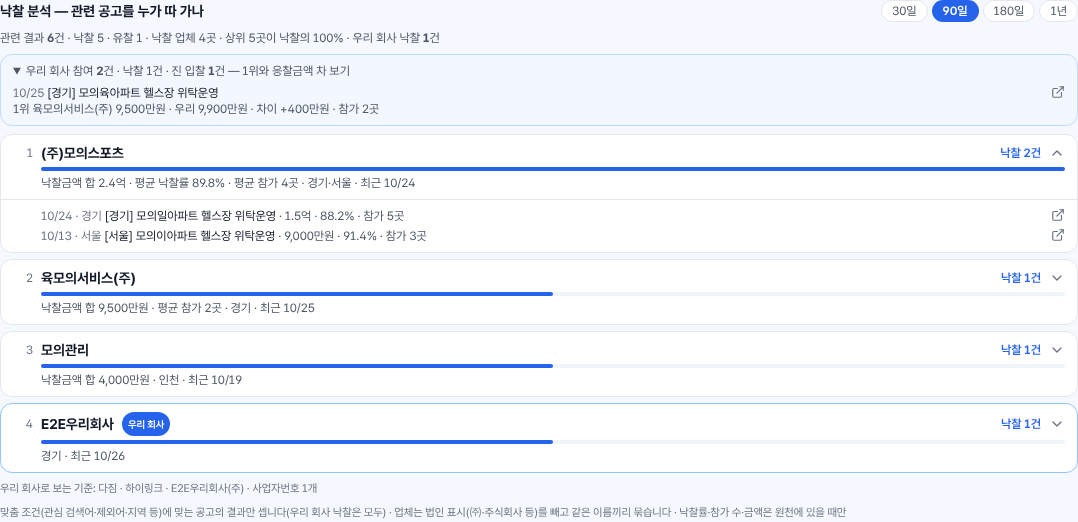
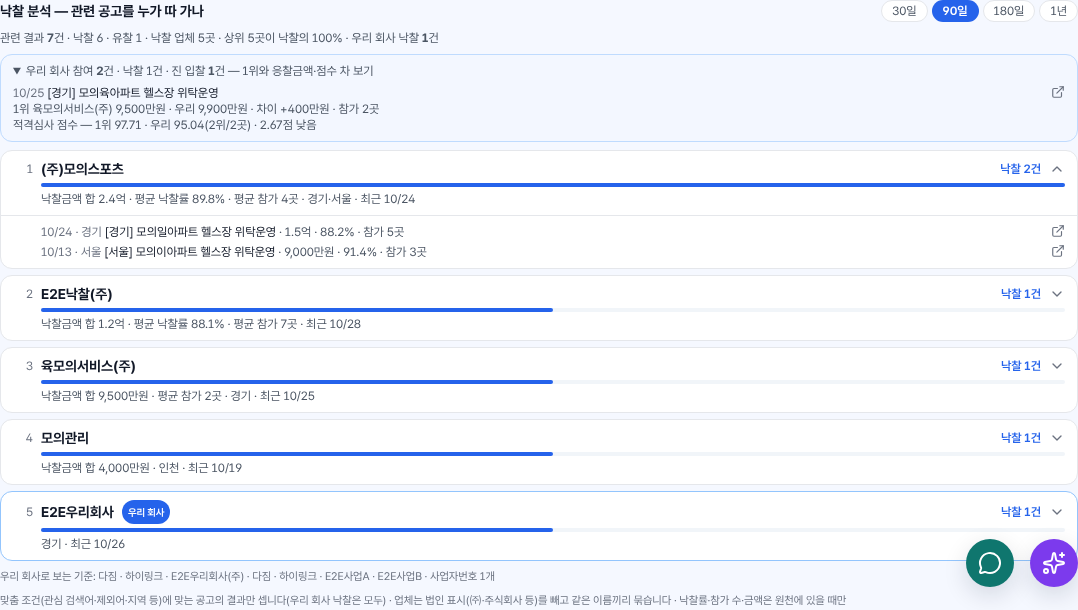
[배포확인요청][로컬요청] 234차 K-apt 입찰결과 목록 '관련 0' 고침(검색 칸 이름·세대수를 제목으로 읽음) + 적격심사 평가 점수 + 지난 1년치 결과가 메일에 한꺼번에 오르지 않게
로컬 10/28 16:20 '[지금 수집] K-apt 입찰결과: 목록 1,800 · 관련 0 — 정상인가' · '평가 점수도 저장 — 적격심사는 점수로 1위'.
원인(K-apt 공개 결과 화면 직접 확인): 검색 칸이 bidTitle·searchDateGb·dateStart·dateEnd 인데 searchKeyword·startDate·endDate 로 보내 검색어가 무시됨(18개 검색어마다 같은 최신 100건) + 지금 결과 표 9칸(순번·단지명·세대수·입찰공고명·입찰마감일·낙찰금액·낙찰업체·응찰금액·낙찰 업체)에서 3번째 칸(세대수)을 제목으로 판정.
- src/lib/sales/collectors/kapt.ts: 결과 목록 요청을 화면 검색 칸 그대로 · parseKaptResultRows 가 표 머리 칸 이름(입찰공고명·단지명·낙찰업체·낙찰금액·낙찰일/입찰마감일)으로 칸을 찾음(머리가 없으면 예전 자리) · 날짜는 앞 10자 · 상세 '참여업체 정보'의 평가점수 칸 → 참여업체 score · 상세 읽기 판(kapt_detail_v 2) — 참여업체 표를 231차 판으로 읽은 줄은 한 번 더
- src/lib/sales/collectors/procurement.ts: resultAtOf — 결과를 처음 안 때는 낙찰일(없으면 마감일)이 7일보다 오래되면 그날 23:59:59(한국 시각), 아니면 지금(새 줄·결과로 바뀐 줄 모두) · 참여업체 score·kapt_detail_v 저장(있을 때만)
- src/lib/sales/digest.ts: 결과 줄은 처음 본 날(isNew)이 아니라 결과를 안 때로 — result_at 이 있으면 그것만(새로 들어온 오래된 결과는 오늘 결과 아님)
- src/lib/sales/srcViews.ts: 오늘 탭 결과 묶음도 같은 기준(결과를 안 때가 지난 메일 전이면 빼기)
- src/lib/sales/migrate.ts: RESULT_KEEP 에 kapt_detail_v · 원본 매일 복사가 결과를 처음 알려도 낙찰일·마감일이 7일보다 오래되면 result_at 을 찍지 않음
- src/lib/sales/awardStats.ts·src/components/sales/AwardStats.tsx: 진 입찰 줄에 적격심사 점수 — 1위(낙찰 표시, 없으면 최고점)·우리·순위/곳(무효 업체 뺌)·n점 낮음/높음
시험: tests/api/sales-collectors(가짜 결과 화면을 실제 9칸 표·bidTitle 로 + 한 달 전 결과의 결과 시각) · sales-kapt-detail-231(평가점수 · 예전 판 한 번 더 읽기) · sales-migrate(+오래된 결과) · tests/e2e/awards226(점수 줄) · 영업 관련 API 전체 · typecheck·lint·build

Claude-Session: https://claude.ai/code/session_016D6QaBbBuSZXAeHKp3DqaZ

diff --git a/src/lib/sales/collectors/kapt.ts b/src/lib/sales/collectors/kapt.ts
@@ -183,13 +183,20 @@ export function parseKaptResultRows(body: string): { bidNum: string; title: stri
   let j: any = null; try { j = JSON.parse(body); } catch { /* HTML */ }
   const list = Array.isArray(j) ? j : Array.isArray(j?.list) ? j.list : Array.isArray(j?.resultList) ? j.resultList : Array.isArray(j?.data) ? j.data : null;
   if (list) { for (const it of list) { const bidNum = String(it.bidNum ?? it.BID_NUM ?? it.bidNo ?? ''); if (!bidNum) continue; out.push({ bidNum, title: String(it.bidTitle ?? it.BID_TITLE ?? it.title ?? ''), complex: String(it.kaptName ?? it.KAPT_NAME ?? it.complexName ?? ''), winner: it.sucsBidder ?? it.SUCS_BIDDER ?? it.winner ?? null, amount: it.sucsAmt ?? it.SUCS_AMT ?? it.amount ?? null, date: it.sucsDate ?? it.SUCS_DATE ?? it.openDate ?? null }); } return out; }
+  // 234차(로컬 10/28 16:20 '목록 1,800 · 관련 0'): 지금 K-apt 결과 표는 순번·단지명·세대수·입찰공고명·입찰마감일·낙찰금액·낙찰업체·응찰금액·낙찰 업체 —
+  // 칸 자리로 읽어 세대수를 제목으로 판정하던 것 → 표 머리 칸 이름으로 찾음(머리가 없으면 예전 자리)
+  const heads = [...body.matchAll(/<th[^>]*>([\s\S]*?)<\/th>/g)].map((m) => text(m[1]).replace(/\s/g, ''));
+  const at = (...names: string[]) => heads.findIndex((h) => names.includes(h));
+  const ix = { title: at('입찰공고명', '공고명'), complex: at('단지명'), winner: at('낙찰업체'), amount: at('낙찰금액'), date: at('낙찰일', '입찰마감일') };
   for (const m of body.matchAll(/<tr[^>]*>([\s\S]*?)<\/tr>/g)) { const tr = m[1]; const id = m[0].match(/goView\('([^']+)'\)|bidNum=([^&'"]+)/); /* 원본 K-apt 는 <tr onclick="goView('…')"> — 행 여는 태그까지 본다 */ const bidNum = id?.[1] ?? id?.[2]; if (!bidNum) continue; const cells = [...tr.matchAll(/<td[^>]*>([\s\S]*?)<\/td>/g)].map((c) => text(c[1])); if (cells.length < 5) continue;
-    out.push({ bidNum, title: cells[2] ?? '', complex: cells[1] ?? '', winner: cells[cells.length - 3] || null, amount: cells[cells.length - 2] || null, date: cells[cells.length - 1] || null }); }
+    const c = (i: number) => (i >= 0 ? cells[i] || null : null);
+    if (ix.title >= 0) out.push({ bidNum, title: cells[ix.title] ?? '', complex: cells[ix.complex] ?? '', winner: c(ix.winner), amount: c(ix.amount), date: c(ix.date)?.slice(0, 10) ?? null });
+    else out.push({ bidNum, title: cells[2] ?? '', complex: cells[1] ?? '', winner: cells[cells.length - 3] || null, amount: cells[cells.length - 2] || null, date: cells[cells.length - 1] || null }); }
   return out;
 }
 /** 231차(로컬 10/28 11:45 '참여업체 정보' 제안): 결과가 난 K-apt 입찰 상세 — 낙찰업체 정보(다른 입찰 사이트를 거친 건) · 참여업체 정보(K-apt 전자입찰) · 낙찰/유찰/취소 사유.
  *  표 머리 칸 이름으로 열을 찾음. 대표자·대표명·전화·연락처·회사주소 칸은 읽지 않음(로컬 10/28 "대표자 이름 · 전화는 저장하지 마세요") */
-export type KaptAwardBidder = { name: string; bizNo: string | null; amount: number | null; won: boolean; invalid: boolean };
+export type KaptAwardBidder = { name: string; bizNo: string | null; amount: number | null; won: boolean; invalid: boolean; score?: number | null };
 export type KaptAwardDetail = { winner: { name: string; bizNo: string | null; amount: number | null; method: string | null } | null; bidders: KaptAwardBidder[] | null; reason: string | null };
 export function parseKaptAwardDetail(html: string): KaptAwardDetail {
   const table = (title: string) => { const i = html.indexOf(title); if (i < 0) return null; const s = html.lastIndexOf('<table', i), e = html.indexOf('</table>', i); return s >= 0 && e > i ? html.slice(s, e) : null; };
@@ -210,14 +217,19 @@ export function parseKaptAwardDetail(html: string): KaptAwardDetail {
   if (p) {
     const rs = rowsOf(p); const heads = rs.map((r) => cells(r, 'th')).find((h) => h.length > 1) ?? [];
     const iName = col(heads, '응찰회사', '회사명', '업체명'), iBiz = col(heads, '사업자등록번호'), iAmt = col(heads, '응찰금액', '투찰금액'), iWon = col(heads, '낙찰여부'), iBad = col(heads, '낙찰무효');
+    // 234차(로컬 10/28 16:20): 적격심사 입찰은 '평가점수' 칸 — 1위는 금액이 아니라 점수로 정해짐
+    const iScore = col(heads, '평가점수'); const score = (v: string | undefined) => { const n = Number(String(v ?? '').replace(/[^\d.]/g, '')); return String(v ?? '').trim() && Number.isFinite(n) && n > 0 ? n : null; };
     if (iName >= 0) bidders = rs.map((r) => cells(r, 'td')).filter((v) => v.length > iName && v[iName]).slice(0, 60)
-      .map((v) => ({ name: v[iName], bizNo: iBiz >= 0 ? biz(v[iBiz]) : null, amount: iAmt >= 0 ? money(v[iAmt]) : null, won: iWon >= 0 && yes(v[iWon]), invalid: iBad >= 0 && yes(v[iBad]) }));
+      .map((v) => ({ name: v[iName], bizNo: iBiz >= 0 ? biz(v[iBiz]) : null, amount: iAmt >= 0 ? money(v[iAmt]) : null, won: iWon >= 0 && yes(v[iWon]), invalid: iBad >= 0 && yes(v[iBad]),
+        ...(iScore >= 0 && score(v[iScore]) != null ? { score: score(v[iScore]) } : {}) }));
     const top = bidders?.find((b) => b.won && !b.invalid); if (!winner && top) winner = { name: top.name, bizNo: top.bizNo, amount: top.amount, method: null };
   }
   const rz = table('낙찰/유찰/취소 사유'); const reason = rz ? rowsOf(rz).map((r) => cells(r, 'td').join(' ').trim()).find(Boolean) ?? null : null;
   return { winner, bidders, reason: reason ? reason.slice(0, 200) : null };
 }
 const DETAIL_RESULT_RUN = 60;
+/** 234차: 상세 읽기 판 — 2 = 평가점수 칸. 참여업체 표를 예전 판으로 읽은 줄은 한 번 더 읽음(231차 첫 읽기 때는 점수를 안 읽었다) */
+const DETAIL_V = 2;
 /** 231차: 관련 K-apt 결과(낙찰자 있음)와 마감 지난 관련 공고(결과 미상, 45일 안)의 상세를 실행당 60건 — 아직 안 읽은 것부터, 결과 미상은 3일마다 다시.
  *  참가 업체 수·참여업체(이름·사업자번호·응찰금액·낙찰 여부·무효)·낙찰업체 사업자번호·사유 → 유찰 사유면 상태 '유찰' */
 async function awardDetails(fetchImpl: typeof fetch, left: () => number, now: Date) {
@@ -225,7 +237,8 @@ async function awardDetails(fetchImpl: typeof fetch, left: () => number, now: Da
   const rows = await db()<{ row: any }[]>`select row from sales_src_rows where scope = 'global' and tbl = 'procurement_notices' and not gone and row->>'source_type' = 'kapt_bid'
       and (row->>'related' = 'true' or coalesce(row->>'fit_business', '') <> '')
       and (coalesce(row->>'winner_name', '') <> '' or (left(coalesce(row->>'deadline_at', ''), 10) < ${day} and left(coalesce(row->>'deadline_at', ''), 10) >= ${kstYmd(new Date(now.getTime() - 45 * 864e5))}))
-      and (row->>'kapt_detail_at' is null or (coalesce(row->>'winner_name', '') = '' and coalesce(row->>'current_status', '') !~ '유찰' and row->>'kapt_detail_at' < ${new Date(now.getTime() - 3 * 864e5).toISOString()}))
+      and (row->>'kapt_detail_at' is null or (coalesce(row->>'winner_name', '') = '' and coalesce(row->>'current_status', '') !~ '유찰' and row->>'kapt_detail_at' < ${new Date(now.getTime() - 3 * 864e5).toISOString()})
+        or (jsonb_typeof(row->'participants') = 'array' and coalesce(row->>'kapt_detail_v', '1') < ${String(DETAIL_V)}))
     order by coalesce(row->>'award_date', row->>'deadline_at') desc nulls last limit ${DETAIL_RESULT_RUN}`;
   const out: Record<string, unknown>[] = []; let withBidders = 0, failed = 0, missed = 0;
   await pool(rows.map((x) => x.row), 4, async (r) => {
@@ -235,7 +248,7 @@ async function awardDetails(fetchImpl: typeof fetch, left: () => number, now: Da
       const s = await kaptSession(bid, fetchImpl, 8000); if (s.status !== 200) { missed++; return; }
       const d = parseKaptAwardDetail(s.html);
       // 마감일을 같이 넘겨 상태 계산(낙찰자 없으면 '마감')이 지금 상태를 '진행중'으로 바꾸지 않게
-      const p: Record<string, unknown> = { source_type: 'kapt_bid', source_external_id: bid, title: r.title, source_url: r.source_url, deadline_at: r.deadline_at ?? null, kapt_detail_at: now.toISOString() };
+      const p: Record<string, unknown> = { source_type: 'kapt_bid', source_external_id: bid, title: r.title, source_url: r.source_url, deadline_at: r.deadline_at ?? null, kapt_detail_at: now.toISOString(), kapt_detail_v: DETAIL_V };
       if (d.winner) { p.winner_name = d.winner.name; if (d.winner.bizNo) p.winner_biz_no = d.winner.bizNo; if (d.winner.amount) p.winner_amount = d.winner.amount; }
       if (d.bidders) { p.participants = d.bidders; p.bidders = d.bidders.length; withBidders++; }
       if (d.reason) p.result_note = d.reason;
@@ -258,7 +271,8 @@ export const kaptBidResults: Collector = {
     for (const w of KAPT_RESULT_WORDS) {
       if (left() < 8000) { errors.push(`시간 한도 근접 — 검색어 '${w}' 부터는 다음 실행에서`); break; }
       try {
-        const body = new URLSearchParams({ searchKeyword: w, sortType: '01', pageNo: '1', pageSelect: '100', startDate: from, endDate: to, ...(csrf ? { _csrf: csrf } : {}) });
+        // 234차: K-apt 결과 화면 검색 칸 이름 그대로(bidTitle·searchDateGb·dateStart·dateEnd) — searchKeyword·startDate 는 무시되어 검색어마다 같은 최신 100건이 왔다
+        const body = new URLSearchParams({ bidTitle: w, searchDateGb: 'reg', dateStart: from, dateEnd: to, tabNum: '1', codeWay: '', sortType: '01', pageNo: '1', pageSelect: '100', ...(csrf ? { _csrf: csrf } : {}) });
         const res = await fetchImpl(`${BASE()}/bid/bidResultListAjax.do`, { method: 'POST', headers: { ...HEADERS, 'content-type': 'application/x-www-form-urlencoded', ...(cookie ? { cookie } : {}), ...(csrf ? { 'X-CSRF-TOKEN': csrf } : {}) }, body, signal: AbortSignal.timeout(10000) });
         if (!res.ok) { errors.push(`'${w}': HTTP ${res.status}`); continue; }
         const rows = parseKaptResultRows(await res.text()); listed += rows.length; if (!rows.length && errors.length < 12) errors.push(`'${w}': 결과 목록 0건(응답 형식 확인 필요)`);

diff --git a/src/lib/sales/collectors/procurement.ts b/src/lib/sales/collectors/procurement.ts
@@ -93,6 +93,12 @@ export function matchFit(...texts: (string | null | undefined)[]): FitResult {
 }
 
 /** 로컬 10/24 12:20(#537 후속): 결과(낙찰·유찰) 줄 — 영업 기회가 아니라 결과. 오늘 새 공고·새 공고 수에서 빼고 '결과' 묶음으로(당일 메일·영업기회 오늘 탭·영업 홈 같은 기준) */
+/** 234차: 결과를 처음 안 때 — 낙찰일(없으면 마감일)이 7일보다 오래된 결과를 이제야 안 것(K-apt 결과 목록을 고친 뒤 1년치처럼)은 그날 끝으로 남겨 당일 메일 '오늘 결과'로 한꺼번에 오르지 않게 */
+export function resultAtOf(r: any, now: Date) {
+  const d = String(r?.award_date ?? '').slice(0, 10).match(/^\d{4}-\d{2}-\d{2}$/)?.[0] ?? String(r?.deadline_at ?? '').slice(0, 10).match(/^\d{4}-\d{2}-\d{2}$/)?.[0];
+  const end = d ? Date.parse(`${d}T23:59:59+09:00`) : NaN;
+  return Number.isFinite(end) && end < now.getTime() - 7 * 864e5 ? new Date(end).toISOString() : now.toISOString();
+}
 export const isAwardResult = (r: any) => /낙찰|유찰/.test(String(r?.current_status ?? '')) || ['winner_name', 'award_company', 'successful_bidder'].some((k) => String(r?.[k] ?? '').trim() !== '');
 /** 닫힌 공고 상태 — '마감임박'(3일 안 마감, 아직 진행 중)은 닫힘이 아님(로컬 10/24 12:58: 마감 10/26 공고가 '마감·취소'로 보였음) */
 export const CLOSED_STATUS = /마감(?!임박)|종료|취소|낙찰|유찰|개찰완료/;
@@ -125,7 +131,7 @@ export const PROCUREMENT_ETL_FIELDS = ['source_url', 'notice_file_url', 'issuer'
   'bid_system', 'award_method', 'notice_state', 'facility_name', 'bid_category', 'office_phone', 'office_fax', 'office_address', 'household_count', 'fit_business', 'matched_keywords', 'related', 'attachment_urls',
   'notice_kind', 'participation_deadline_at', 'opening_at', 'demand_agency', 'region_restriction', 'industry_code', 'winner_name', 'winner_amount', 'award_date', 'files_checked_at', 'site_briefing_at', 'site_briefing_place',
   'base_amount', 'notice_no', 'winner_biz_no', 'winner_rate', 'bidders'] as const; // #522 기초금액(LH fdmtlAmt·국방 기초예비가격) — 추정가격·배정예산과 따로 · #543 공고번호(바로 가는 주소가 없는 원천의 '번호 검색' 안내)
-export const AWARD_FIELDS = ['winner_name', 'winner_biz_no', 'winner_amount', 'award_date', 'current_status', 'winner_rate', 'bidders', 'participants', 'result_note', 'kapt_detail_at'] as const; // 196차: 낙찰자 사업자번호 — 입찰 업무 '우리 회사 낙찰' 판정 · #530 낙찰률·참가 업체 수(당일 메일 결과 구역) · 231차 K-apt 상세 참여업체(대표자·전화 없음)·사유·읽은 때
+export const AWARD_FIELDS = ['winner_name', 'winner_biz_no', 'winner_amount', 'award_date', 'current_status', 'winner_rate', 'bidders', 'participants', 'result_note', 'kapt_detail_at', 'kapt_detail_v'] as const; // 196차: 낙찰자 사업자번호 — 입찰 업무 '우리 회사 낙찰' 판정 · #530 낙찰률·참가 업체 수(당일 메일 결과 구역) · 231차 K-apt 상세 참여업체(대표자·전화 없음)·사유·읽은 때
 export type NoticeRow = Record<string, unknown> & { source_type: string; source_external_id: string; title: string; source_url: string };
 
 const txt = (v: unknown): string | null => { if (v == null) return null; const t = String(v).replace(/\s+/g, ' ').trim(); return t ? t : null; };
@@ -182,8 +188,9 @@ export function validateNoticePayload(p: Record<string, unknown>, now: Date): No
     base_amount: num(p.base_amount),
     notice_no: txt(p.notice_no), // #543 차수·구분 없는 공고번호(온비드·국방·LH — 원천 사이트에서 검색할 번호)
     // 231차 K-apt 상세: 참여업체(이름·사업자번호·응찰금액·낙찰 여부·무효만 — 대표자·전화 칸은 받지 않음)·낙찰/유찰/취소 사유·상세 읽은 때
-    ...(Array.isArray(p.participants) ? { participants: (p.participants as any[]).slice(0, 60).map((b) => ({ name: txt(b?.name)?.slice(0, 100) ?? '', bizNo: txt(b?.bizNo), amount: num(b?.amount), won: b?.won === true, invalid: b?.invalid === true })).filter((b) => b.name) } : {}),
-    ...(txt(p.result_note) ? { result_note: txt(p.result_note)!.slice(0, 200) } : {}), ...(txt(p.kapt_detail_at) ? { kapt_detail_at: txt(p.kapt_detail_at) } : {}),
+    ...(Array.isArray(p.participants) ? { participants: (p.participants as any[]).slice(0, 60).map((b) => ({ name: txt(b?.name)?.slice(0, 100) ?? '', bizNo: txt(b?.bizNo), amount: num(b?.amount), won: b?.won === true, invalid: b?.invalid === true,
+      ...(num(b?.score) != null ? { score: num(b?.score) } : {}) })).filter((b) => b.name) } : {}), // 234차: 적격심사 평가 점수(있을 때만)
+    ...(txt(p.result_note) ? { result_note: txt(p.result_note)!.slice(0, 200) } : {}), ...(txt(p.kapt_detail_at) ? { kapt_detail_at: txt(p.kapt_detail_at) } : {}), ...(num(p.kapt_detail_v) != null ? { kapt_detail_v: num(p.kapt_detail_v) } : {}),
   };
   return { ok: true, row };
 }
@@ -216,7 +223,7 @@ export function planNoticeBatch(items: Record<string, unknown>[], prev: Map<stri
     const p = prev.get(v.row.source_external_id);
     if (!p) {
       if (mergeScope === 'award' && !v.row.winner_name) continue; // 낙찰 병합인데 기존 공고가 없고 낙찰자도 없으면 버림
-      plan.inserts.push({ key, row: { ...v.row, classification: initialClassification(v.row), ...(isAwardResult(v.row) ? { result_at: now.toISOString() } : {}) } }); continue;
+      plan.inserts.push({ key, row: { ...v.row, classification: initialClassification(v.row), ...(isAwardResult(v.row) ? { result_at: resultAtOf(v.row, now) } : {}) } }); continue;
     }
     const patch: Record<string, unknown> = {}; const changed: string[] = [];
     const fields = mergeScope === 'award' ? AWARD_FIELDS : PROCUREMENT_ETL_FIELDS;
@@ -239,7 +246,7 @@ export function planNoticeBatch(items: Record<string, unknown>[], prev: Map<stri
       if (patch.related === false && (p.related === true || p.related === 'true')) { patch.classification = '참고(비관련)'; if (p.refound_at) patch.refound_at = null; }
     }
     // 215차(#530): 결과(낙찰·유찰)를 처음 알게 된 때 — 당일 메일 '결과' 구역은 이 시각으로(낙찰률 채우기 같은 고침으로 예전 결과가 다시 오르지 않게)
-    if (changed.length && !isAwardResult(p) && isAwardResult({ ...p, ...patch })) { patch.result_at = now.toISOString(); changed.push('result_at'); }
+    if (changed.length && !isAwardResult(p) && isAwardResult({ ...p, ...patch })) { patch.result_at = resultAtOf({ ...p, ...patch }, now); changed.push('result_at'); }
     // 230차(로컬 10/28 14:40 남원시): 이미 결과였던 줄에 낙찰률·참가 수가 뒤늦게 채워진 때 — 다음 당일 메일 결과 구역에 '보완' 한 줄로 다시 냄
     else if (isAwardResult(p) && ((patch.winner_rate != null && !filled(p.winner_rate)) || (patch.bidders != null && !filled(p.bidders)))) { patch.result_filled_at = now.toISOString(); changed.push('result_filled_at'); }
     if (changed.length) plan.updates.push({ id: String(p.id), key, patch, summary: `변경: ${changed.join(', ')}` });

diff --git a/src/components/sales/AwardStats.tsx b/src/components/sales/AwardStats.tsx
@@ -9,7 +9,8 @@ import { ErrorBox, Skeleton, cx } from '@/components/ui';
 
 type Rec = { id: string; title: string; date: string | null; amount: number | null; rate: number | null; bidders: number | null; region: string | null; issuer: string | null; url: string | null };
 type Co = { key: string; rank: number; name: string; ours: boolean; wins: number; amount: number | null; rate: number | null; bidders: number | null; regions: string[]; last: string | null; recent: Rec[] };
-type Lost = { id: string; title: string; date: string | null; issuer: string | null; url: string | null; our: number | null; winner: string | null; winnerAmount: number | null; gap: number | null; bidders: number | null };
+type Lost = { id: string; title: string; date: string | null; issuer: string | null; url: string | null; our: number | null; winner: string | null; winnerAmount: number | null; gap: number | null; bidders: number | null;
+  score?: { top: number | null; our: number; gap: number | null; rank: number; of: number } | null };
 type Stats = { days: number; total: number; awarded: number; failed: number; companies: number; ours: number; top5Share: number; items: Co[]; me?: { names: string[]; biz: number; noBiz: string[] };
   participated?: number; lostCount?: number; lost?: Lost[] };
 const C = '#2563EB'; // 영업 색(SalesSrc 와 같음)
@@ -30,11 +31,13 @@ export function AwardStats({ onOpen }: { onOpen: (id: string) => void }) {
       {error ? <ErrorBox error={error} retry={reload} /> : !data ? <Skeleton rows={5} /> : <>
         <p className="text-xs text-ink-2" data-testid="award-summary">관련 결과 <b>{data.total}</b>건 · 낙찰 {data.awarded} · 유찰 {data.failed} · 낙찰 업체 {data.companies}곳{data.awarded ? ` · 상위 5곳이 낙찰의 ${data.top5Share}%` : ''} · 우리 회사 낙찰 <b>{data.ours}</b>건</p>
         {(data.participated ?? 0) > 0 && <details className="rounded-card border border-blue-200 bg-blue-50/40 px-3 py-2 text-xs" data-testid="award-lost">
-          <summary className="cursor-pointer text-ink-2">우리 회사 참여 <b>{data.participated}</b>건 · 낙찰 {data.ours}건 · 진 입찰 <b>{data.lostCount ?? 0}</b>건{(data.lostCount ?? 0) > 0 ? ' — 1위와 응찰금액 차 보기' : ''}</summary>
+          <summary className="cursor-pointer text-ink-2">우리 회사 참여 <b>{data.participated}</b>건 · 낙찰 {data.ours}건 · 진 입찰 <b>{data.lostCount ?? 0}</b>건{(data.lostCount ?? 0) > 0 ? ' — 1위와 응찰금액·점수 차 보기' : ''}</summary>
           {(data.lost ?? []).length > 0 && <ul className="mt-1.5 space-y-1">{(data.lost ?? []).map((x) => (
             <li key={x.id} className="flex min-w-0 items-start gap-1.5"><button type="button" onClick={() => onOpen(x.id)} className="min-w-0 flex-1 text-left hover:underline" data-testid="award-lost-row">
               <span className="text-ink-3">{md(x.date) ?? '날짜 없음'}</span> {x.title}
-              <span className="block text-ink-2">{[x.winner && `1위 ${x.winner}${won(x.winnerAmount) ? ` ${won(x.winnerAmount)}` : ''}`, won(x.our) && `우리 ${won(x.our)}`, x.gap != null && `차이 ${x.gap > 0 ? '+' : x.gap < 0 ? '−' : ''}${won(Math.abs(x.gap)) ?? '0원'}`, x.bidders && `참가 ${x.bidders}곳`].filter(Boolean).join(' · ')}</span></button>
+              <span className="block text-ink-2">{[x.winner && `1위 ${x.winner}${won(x.winnerAmount) ? ` ${won(x.winnerAmount)}` : ''}`, won(x.our) && `우리 ${won(x.our)}`, x.gap != null && `차이 ${x.gap > 0 ? '+' : x.gap < 0 ? '−' : ''}${won(Math.abs(x.gap)) ?? '0원'}`, x.bidders && `참가 ${x.bidders}곳`].filter(Boolean).join(' · ')}</span>
+              {x.score && <span className="block text-ink-2" data-testid="award-lost-score">적격심사 점수 — {[x.score.top != null && `1위 ${x.score.top}`, `우리 ${x.score.our}(${x.score.rank}위/${x.score.of}곳)`,
+                x.score.gap != null && (x.score.gap > 0 ? `${x.score.gap}점 낮음` : x.score.gap < 0 ? `${-x.score.gap}점 높음` : '같은 점수')].filter(Boolean).join(' · ')}</span>}</button>
               {x.url && <a href={x.url} target="_blank" rel="noopener noreferrer" className="shrink-0 text-ink-3 hover:text-ink" aria-label="원문 보기"><ExternalLink className="size-3.5" /></a>}</li>))}</ul>}
         </details>}
         {!data.items.length ? <p className="rounded-card border border-dashed border-line bg-white p-4 text-center text-sm text-ink-3" data-testid="award-empty">이 기간 관련 공고의 낙찰 결과가 없습니다. 낙찰 결과는 수집기(K-apt 입찰결과·나라장터 낙찰정보 등)가 모읍니다 — <Link href="/s/sales/sources#collectors" className="underline">데이터 설정 › 수집기</Link></p>

diff --git a/src/lib/sales/awardStats.ts b/src/lib/sales/awardStats.ts
@@ -16,8 +16,15 @@ import { sidoIn } from './region';
 export const AWARD_DAYS = [30, 90, 180, 365] as const;
 type Rec = { id: string; title: string; date: string | null; amount: number | null; rate: number | null; bidders: number | null; region: string | null; issuer: string | null; url: string | null };
 /** 231차: 우리 회사가 참여했지만 남이 낙찰한 입찰(K-apt 참여업체 표) — 1위와 응찰금액 차(우리 − 1위) */
-type Lost = { id: string; title: string; date: string | null; issuer: string | null; url: string | null; our: number | null; winner: string | null; winnerAmount: number | null; gap: number | null; bidders: number | null };
+type Lost = { id: string; title: string; date: string | null; issuer: string | null; url: string | null; our: number | null; winner: string | null; winnerAmount: number | null; gap: number | null; bidders: number | null;
+  /** 234차: 적격심사 평가 점수(참여업체 표에 있을 때) — 1위 점수·우리 점수·차이(1위 − 우리)·우리 점수 순위 */ score?: { top: number | null; our: number; gap: number | null; rank: number; of: number } | null };
 const num = (v: unknown) => { if (v == null || v === '') return null; const x = Number(String(v).replace(/[,원%\s]/g, '')); return Number.isFinite(x) && x > 0 ? x : null; };
+/** 234차(로컬 10/28 16:20 힐스테이트관악센트씨엘 — 금액 차 4.8만원보다 점수 차 2.67점): 참여업체 평가 점수가 있으면 1위(낙찰 표시, 없으면 최고점)·우리·차이·우리 순위(무효 뺌) */
+const scoreOf = (ps: any[], us: any, top: any) => {
+  const our = num(us?.score); if (our == null) return null;
+  const valid = ps.filter((x) => !x?.invalid && num(x?.score) != null); const best = num(top?.score) ?? Math.max(...valid.map((x) => num(x.score) as number));
+  return { top: Number.isFinite(best) ? best : null, our, gap: Number.isFinite(best) ? Math.round((best - our) * 100) / 100 : null, rank: valid.filter((x) => (num(x.score) as number) > our).length + 1, of: valid.length };
+};
 const avg = (xs: number[]) => (xs.length ? Math.round((xs.reduce((a, b) => a + b, 0) / xs.length) * 10) / 10 : null);
 const regionOf = (r: Record<string, any>) => { const v = String(r.region ?? '').trim(); return (v && v !== '-' ? sidoIn(v) ?? v : null) ?? sidoIn(r.region_restriction, r.issuer, r.demand_agency, r.office_address, r.facility_name, r.title); };
 
@@ -43,7 +50,7 @@ export async function awardStats(u: SessionUser, days0: number) {
     if (us || mine) participated++;
     if (us && !mine && name) { const top = ps.find((x) => x?.won && !x?.invalid); const our = num(us.amount), wa = num(r.winner_amount) ?? num(top?.amount);
       lost.push({ id: String(r.id ?? id), title: String(r.title ?? '').trim(), date: String(r.award_date ?? r.posted_date ?? '').slice(0, 10) || null, issuer: String(r.issuer ?? r.facility_name ?? '').trim() || null,
-        url: String(r.source_url ?? '').trim() || null, our, winner: name, winnerAmount: wa, gap: our != null && wa != null ? our - wa : null, bidders: ps.length || num(r.bidders) }); }
+        url: String(r.source_url ?? '').trim() || null, our, winner: name, winnerAmount: wa, gap: our != null && wa != null ? our - wa : null, bidders: ps.length || num(r.bidders), score: scoreOf(ps, us, top) }); }
     if (!mine && !passPrefs(r, p).ok) continue; // 227차: 우리 회사 낙찰은 맞춤 조건(지역·검색어 등) 밖이어도 셈
     total++;
     if (!name) { failed++; continue; }

diff --git a/src/lib/sales/migrate.ts b/src/lib/sales/migrate.ts
@@ -62,10 +62,10 @@ const idOf = (r: any) => (r?.id != null ? String(r.id) : createHash('sha256').up
 /** 191차(대표 10/27 판정 정정): 워크인 규칙으로 판정한 공고 줄(judged_at)은 원본 매일 복사가 판정 칸을 원본 값으로 되돌리지 않음 — 나머지 칸은 원본 값 */
 export const JUDGED_KEEP = ['related', 'fit_business', 'matched_keywords', 'classification', 'refit_at', 'refound_at', 'refit_lowered_at', 'refit_lowered_why', 'refit_changed_at', 'judged_at'];
 /** 232차(로컬 10/28 15:40 남원시 '결과를 처음 안 때'가 빔): 워크인 수집기·K-apt 상세가 채운 결과 칸 — 원본 매일 복사가 원본의 빈 값으로 지우지 않음(원본에 값이 있으면 원본 값).
- *  낙찰·유찰로 안 결과는 원본이 아직 결과 전이어도 상태를 되돌리지 않고, 원본 복사로 결과를 처음 알면 그때를 result_at 으로 */
-export const RESULT_KEEP = ['result_at', 'result_filled_at', 'kapt_detail_at', 'participants', 'result_note', 'winner_name', 'winner_biz_no', 'winner_amount', 'award_date', 'winner_rate', 'bidders'];
+ *  낙찰·유찰로 안 결과는 원본이 아직 결과 전이어도 상태를 되돌리지 않고, 원본 복사로 결과를 처음 알면 그때를 result_at 으로(234차: 낙찰일·마감일이 7일보다 오래된 결과는 찍지 않음 — 당일 메일에 한꺼번에 오르지 않게) */
+export const RESULT_KEEP = ['result_at', 'result_filled_at', 'kapt_detail_at', 'kapt_detail_v', 'participants', 'result_note', 'winner_name', 'winner_biz_no', 'winner_amount', 'award_date', 'winner_rate', 'bidders'];
 async function upsertRows(scope: string, tbl: string, rows: any[]) {
-  const sql = db(); const now = new Date();
+  const sql = db(); const now = new Date(); const weekAgo = new Intl.DateTimeFormat('en-CA', { timeZone: 'Asia/Seoul' }).format(new Date(now.getTime() - 7 * 864e5));
   for (let n = 0; n < rows.length; n += 500) {
     const chunk = rows.slice(n, n + 500).map((r) => ({ scope, tbl, src_id: idOf(r), row: sql.json(r), gone: false, synced_at: now }));
     if (tbl === 'procurement_notices') await sql`insert into sales_src_rows ${sql(chunk as never)} on conflict (scope, tbl, src_id) do update set
@@ -77,6 +77,7 @@ async function upsertRows(scope: string, tbl: string, rows: any[]) {
           then jsonb_strip_nulls(jsonb_build_object('current_status', sales_src_rows.row->'current_status', 'notice_state', sales_src_rows.row->'notice_state')) else '{}'::jsonb end)
         || (case when not (sales_src_rows.row ? 'result_at') and not (coalesce(sales_src_rows.row->>'current_status', '') ~ '낙찰|유찰' or coalesce(sales_src_rows.row->>'winner_name', '') <> '')
             and (coalesce(excluded.row->>'current_status', '') ~ '낙찰|유찰' or coalesce(excluded.row->>'winner_name', '') <> '')
+            and not coalesce(coalesce(nullif(left(excluded.row->>'award_date', 10), ''), left(excluded.row->>'deadline_at', 10)) < ${weekAgo}, false)
           then jsonb_build_object('result_at', ${now.toISOString()}::text) else '{}'::jsonb end),
       gone = false, synced_at = excluded.synced_at`;
     else await sql`insert into sales_src_rows ${sql(chunk as never)} on conflict (scope, tbl, src_id) do update set row = excluded.row, gone = false, synced_at = excluded.synced_at`;

diff --git a/src/lib/sales/srcViews.ts b/src/lib/sales/srcViews.ts
@@ -451,7 +451,9 @@ export async function salesView(u: SessionUser, view: string, q: { q?: string; i
     const who = tab === 'skip' ? new Map((await sql<{ id: string; name: string }[]>`select id, name from users where tenant = ${t}`).map((x) => [x.id, x.name])) : null;
     const td = today();
     const all = N.map((r) => { const id = String(r.id ?? r.__id); const w = byNotice.get(id); const p = P.get(id); const n0 = notice(r, cats); const why = todayReason(n0, r.first_seen_at, since, r.refound_at); const skipped = skips.hidden(r);
-      return { ...n0, todayHit: why.hit, todayLabel: why.label, result: isAwardResult(r), work: w ? pick(w, 'status') : null, classification: p?.classification ?? pick(r, 'classification'), judgment: p?.representative_judgment ?? pick(r, 'representative_judgment'),
+      // 234차: 처음 본 날이 오늘이어도 결과를 안 때(result_at)가 지난 메일 전이면(오래된 결과를 이제야 모은 것) 오늘 결과 묶음에 넣지 않음 — 당일 메일과 같은 기준
+      const oldResult = isAwardResult(r) && since != null && Date.parse(String(r.result_at ?? '')) < since;
+      return { ...n0, todayHit: why.hit && !oldResult, todayLabel: why.label, result: isAwardResult(r), work: w ? pick(w, 'status') : null, classification: p?.classification ?? pick(r, 'classification'), judgment: p?.representative_judgment ?? pick(r, 'representative_judgment'),
         // 대표 검수 10/20 ②: 입찰 상세(메모·다음 조치·원본) · #610 넘기기로 만든 리드면 카드에 [되돌리기]
         workMemo: w ? pick(w, 'memo', 'note') : null, workNext: w ? day(pick(w, 'next_action_date', 'next_date', 'due_date')) : null, workLeadId: w?.lead_id ?? null, workHandoff: !!(w?.lead_id && pick(w, 'handoff_by')), raw: r.__orig ?? r,
         // 결정 15-35: 입찰 업무로 넘긴 공고 — 업무 열기·기한·결과·[되돌리기]

diff --git a/src/lib/sales/digest.ts b/src/lib/sales/digest.ts
@@ -211,7 +211,8 @@ export async function buildDigest(tenant: string, day = kstDay()) {
     if (onbidSale(r)) { skip('온비드 매각'); continue; } // #537 후속2(로컬 10/24 12:58): 온비드는 임대·사용허가만
     if (notTarget(String(r.id ?? src_id), r)) { skip('대상 아님'); continue; }
     const f = passPrefs(r, p); if (!f.ok) { skip(f.why); continue; }
-    if (result) { if (isNew || resultToday || filledToday) cands.push({ id: String(r.id ?? src_id), r, isNew, kind: 'result', late: false, fit: f.fit, why: f.why, ...(filledToday && !isNew ? { filled: true } : {}) }); continue; } // 결과는 마감이 지났어도(낙찰은 마감 뒤) '결과' 묶음
+    // 234차: 결과 줄은 처음 본 날이 아니라 결과를 안 때로 — 새로 들어온 오래된 결과(result_at 이 그날 끝)는 오늘 결과가 아님
+    if (result) { if ((isNew && resAt == null) || resultToday || filledToday) cands.push({ id: String(r.id ?? src_id), r, isNew, kind: 'result', late: false, fit: f.fit, why: f.why, ...(filledToday && !isNew ? { filled: true } : {}) }); continue; } // 결과는 마감이 지났어도(낙찰은 마감 뒤) '결과' 묶음
     const dl = dayOf(r.deadline_at);
     if (dl && dl < day) { skip('마감 지남'); continue; } // 첫 수집일에 과거 마감 공고가 '새 공고'로 섞이지 않게(로컬 10/21 10:55)
     cands.push({ id: String(r.id ?? src_id), r, isNew, kind: String(r.current_status ?? '') === '취소' ? 'cancel' : kind0, late: isNew && !refound && seen! < dayStart, fit: f.fit, why: f.why, refound });

diff --git a/docs/handoff/LOCAL_LOG.md b/docs/handoff/LOCAL_LOG.md
@@ -616,6 +616,7 @@
 - 2026-10-28 [클라우드] [배포확인요청][로컬요청] 231차 — K-apt 입찰 상세 '참여업체 정보'(로컬 11:45 제안): 매일 07시 K-apt 입찰결과 수집 뒤 관련 결과·마감 지난 관련 공고의 상세를 하루 60건 읽어 참여업체(이름·사업자번호·응찰금액·낙찰 여부·무효)·참가 업체 수·낙찰업체 사업자번호·낙찰/유찰/취소 사유를 채움(유찰 사유면 상태 '유찰') · 대표자·대표명·전화·연락처·주소는 읽지도 저장하지도 않음 · 낙찰 분석에 '우리 회사 참여·낙찰·진 입찰' 접기(1위와 응찰금액 차) · 자동 검사 1587·1590번(알림 화면 시험 흔들림) 고침. **로컬 요청:** 배포 뒤 플랫폼 운영 › 수집기에서 'K-apt 입찰결과(낙찰)'를 [지금 수집]으로 한 번 돌리거나(K-apt 공개 화면 읽기, 비용 없음) 내일 07시 정기 실행 뒤, 요약의 '상세 n건(참여업체 표 n · 유찰 n · 못 읽음 n · 고침 n)'을 알려 주세요 · 영업기회 › 입찰에서 참여업체가 채워진 K-apt 공고 1건의 원본(raw) participants 에 대표자·전화가 없는지, 유찰로 바뀐 공고 1건의 사유가 맞는지 · 낙찰 분석 맨 위 '우리 회사 참여 n건'이 보이는지 봐 주세요.
 - 2026-10-28 [클라우드] [배포확인요청][로컬요청] 232차 — 로컬 15:40·15:55 남원시 결과 시각 빈 칸: 원본 영업관리 복사 줄이라 원본 매일 복사가 워크인 결과 칸(결과 시각·보완 시각·낙찰률·참가 수 등)을 덮어 지움 · 08:50 낙찰률·참가 수는 워크인 나라장터 낙찰 수집기가 채운 것으로 보임(마지막 고친 때·복사 시각 1천분의 1초 차, 원본 복사 마지막 적용 00:13) → ① 당일 메일이 지난 4일 메일 결과 줄과 비교해 같은 결과는 다시 안 내고, 바로 전 메일 줄에 새로 붙은 낙찰률·참가 수·낙찰자·금액은 '보완' 한 줄 ② 원본 매일 복사가 비어 있는 결과 칸을 워크인 값으로 남기고 낙찰·유찰을 되돌리지 않음, 원본 복사로 결과를 처음 알면 그때를 결과 시각으로 ③ 공고 조회에 보완 시각·상세 읽은 때·참여업체 수·사유·이 회사 지난 14일 메일 기록(mailed). **로컬 요청:** 배포 뒤 231차 [지금 수집](K-apt 입찰결과) 확인 · 공고 조회 남원시 mailed 에 10/28 결과 줄(낙찰률 없음)이 보이는지 · 내일(10/29) 00시대 원본 복사 뒤에도 남원시 낙찰률 88.019·참가 38 이 남는지 · 내일 당일 메일 결과 구역에 남원시 '보완' 한 줄이 있는지.
 - 2026-10-28 [클라우드] [배포확인요청] 233차 — 자동 검사 1603번(230차) 빨간불 2건(마케팅 화면 시험, 230차 변경과 무관): ① AI 마케팅팀에서 주제를 채택한 직후 화면이 디자인 담당의 '만드는 중'보다 먼저 다시 읽으면 '대기'에 멈추던 것(실제 화면에서도 생길 수 있음) → 맡긴 뒤 2분은 결과가 생길 때까지 3초마다 다시 읽음 ② 승인함 뒤로가기 시험이 스크롤 값 대신 누른 카드의 화면 위치를 봄. 로컬 확인 필요 없음(자동 검사로 확인) — 대표가 AI 마케팅팀에서 채택한 주제가 '대기'에 오래 멈춰 보였다면 이 문제였습니다.
+- 2026-10-28 [클라우드] [배포확인요청][로컬요청] 234차 — 로컬 16:20 'K-apt 입찰결과 목록 1,800 · 관련 0' 원인 2개: ① 검색 칸 이름이 틀려(searchKeyword·startDate → 실제 bidTitle·dateStart·dateEnd) 검색어마다 같은 최신 100건 ② 결과 표 9칸에서 3번째(세대수)를 제목으로 판정 — 이 수집기는 그동안 낙찰을 거의 못 붙였음 → 바른 칸 이름·표 머리 이름으로 고침 + 평가점수 칸 저장·낙찰 분석 진 입찰 줄에 '적격심사 점수 — 1위 · 우리(순위) · n점 낮음' + 지난 1년치 결과가 한꺼번에 메일에 오르지 않게(낙찰일 7일 넘은 결과는 결과 시각 = 그날 끝, 메일·오늘 탭 결과 묶음은 결과를 안 때 기준, 원본 복사도 같음). '유찰 33'은 맞게 셈(사유 표 첫 칸이 유찰·낙찰자 없음). **로컬 요청:** 배포 뒤 'K-apt 입찰결과(낙찰)' [지금 수집] 한 번 → 요약 '관련 n건 · 낙찰 병합 n · 신규 n' (0 이 아니어야 함) · 낙찰 분석 1년 결과 수가 늘었는지 · 힐스테이트관악센트씨엘 진 입찰 줄에 '적격심사 점수 — 1위 97.71 · 우리 95.04(5위/9곳) · 2.67점 낮음'(231차 판으로 참여업체 표를 읽은 줄은 다음 실행에서 한 번 더 읽어 점수를 채움) · 내일 당일 메일 결과 구역이 옛 결과로 넘치지 않는지.
 - 2026-10-26 [클라우드] [배포확인요청] 176차 — 171·173차 CI 빨간불 원인 2가지 바로잡음: ① 캘린더 종일 칸 설정이 창 폭이 640 을 넘나들 때 PC 값(꺼짐)을 휴대폰 키에 덮어쓰던 실제 버그(휴대폰 보기 종일 줄이 꺼진 채 시작) → 사람이 바꿀 때만 저장·폭 바뀌면 다시 읽음 ② 실기기 83 시트 버튼 줄 1px 여유. 로컬 확인 요청: 없음(운영 화면 변화는 'PC 창을 좁혔다 넓혀도 휴대폰 종일 줄 설정이 안 꺼짐'뿐). CI 결과는 클라우드가 확인.
 - 2026-10-25 [클라우드] [배포확인요청] 149차 — #599 새 고객사 시뮬레이션(시험 서버 E2E: 가입 → 온보딩 → 첫 화면 → 공간 켜기 → 데이터 설정 → 마케팅 → 자동 제작 → 사용량 → 알림 → API 8개, 캡처 281~295) 명세 §3 결과: 내부 이름 0건 · 키 없는 수집기 7개 = '신청 필요'+[방법 보기] · '채널 연결 3단계' · 첫날 알림 0건 · 사용량 원화만. #602 공통 함수 customerScope(seesInternals = 슈퍼관리자 또는 내부 테넌트): 수집기·사용량·자동 제작·마케팅 홈·AI 예산 응답에서 원인·원가·달러·모델·외부 서비스 이름·원천 주소·공용 실행 기록 제거 + 고객 문구 사전 + 금지 낱말 자동 검사(API 5/5·E2E 발견 0건). P0 버그 수정: 새 회사 첫 로그인·온보딩 끝 직후 흰 화면+로고(수화 오류로 실행 애니메이션 덮개가 안 걷힘) → Modal 마운트 뒤 포털·IntroGuard·CSS 안전장치. 마이그레이션 없음(200 그대로). 로컬 요청: ① 운영에서 새 회사 가입(대표 결정 범위 안에서) → 확인 링크 → 첫 화면이 흰 화면 없이 뜨는지, 온보딩 [완료] 직후도 ② 고객사 계정으로 영업 › 데이터 설정(상태 칩 4가지·[방법 보기]·키 이름/주소/오류 원문 없음)·마케팅 › 자동 제작(글 모델 등급 이름만)·관리 › 사용량(원화·%·횟수만) ③ 내부 테넌트(우리 회사)에서는 예전처럼 전부 보이는지 ④ 공개 요금표(/api/public/ai-plans·소개 사이트)의 단가 표시는 그대로 두었음 — 대표 결정 필요하면 알려 주세요.
 - 2026-10-25 [클라우드] [배포확인요청] 148차 — #592 ② 휴대폰 캘린더 주 보기 밀도(명세 §2): 시간 칸 주 40/3일 48/일 64 → 한 화면 약 15시간, 블록 11px 중간 굵기·줄 수 블록 높이만큼, 좁은 블록 앞머리 [태그] 떼기(부재 종류 유지), 종일 줄 기본 켬(2줄 + '+n개' → 그날 목록), 미팅 단추 둥근 48px·아래로 밀면 숨김, 휴대폰 머리줄 한 줄(월▾·보기 전환·‹›·오늘·+). 견적서 공급자 긴 주소 두 줄(로컬 15:45). 마이그레이션 없음(200 그대로). 로컬 요청: ① 대표 휴대폰(390~412px) 주 보기 — 08~22시가 한 화면에, [다짐 문의] 업무가 내용부터 2줄로, 종일 칩이 날짜 머리 아래 바로, + 단추가 칸을 안 가리고 아래로 밀면 숨는지(명세 §3 2~5) ② 3일·일 보기 칸 높이·일 보기는 제목 그대로 ③ 견적서 미리보기(hilink) 공급자 주소 두 줄 ④ 명세 §3 1·6(구글 11건·중복 정리)은 가져오기를 대표가 취소(#604)해 하지 않음 — 워크인에 직접 넣은 일정만 보임.

diff --git a/TEST_REPORT.md b/TEST_REPORT.md
@@ -1,7 +1,9 @@
 # 시험 보고서
 
 최종 실행: 2026-10-13 (UTC) · 클라우드 개발 환경 (Node 22, PostgreSQL 16, Chromium 141)
-요약 (2026-10-28 233차: 자동 검사 1603번(230차 4654cd4, 운영 브랜치) 빨간불 2건 — 230차 변경(영업)과 무관한 마케팅 화면 시험 · ① #499-7 AI 마케팅팀: 실패 화면에 채택한 카드뉴스 주제가 '디자인 담당 · 대기 [디자인 담당에게 맡기기]'로 멈춤 → 원인: 채택 응답 뒤(after) 디자인 담당이 '만드는 중'을 찍기 전에 화면이 다시 읽으면 '만드는 중' 주제가 없어 3초 다시 읽기가 시작되지 않음 — 실제 화면에서도 생길 수 있음 → 채택·맡기기가 '맡김'으로 돌아오면 2분 동안은 채택한 주제의 결과가 생길 때까지 3초마다 다시 읽음 ② #535 승인함 뒤로가기: 스크롤 값 4574 → 4670 — 위쪽 묶음이 늦게 늘면 브라우저가 보던 자리를 지키려 스크롤 값을 늘림 → 시험이 스크롤 값 대신 누른 카드가 화면에서 같은 자리인지(±4) 봄(맨 위로 돌아가는 원래 문제는 그대로 잡음)
+요약 (2026-10-28 234차: 로컬 10/28 16:20 '[지금 수집] K-apt 입찰결과: 목록 1,800 · 관련 0 — 정상인가' · '평가 점수도 저장 — 적격심사는 점수로 1위(힐스테이트관악센트씨엘: 금액 차 4.8만원보다 점수 차 2.67점)' → 원인 2개(공개 화면 직접 확인): ① 검색 칸 이름이 틀림 — K-apt 결과 화면은 bidTitle·dateStart·dateEnd·searchDateGb 인데 searchKeyword·startDate 로 보내 검색어가 무시되고 18개 검색어마다 같은 최신 100건(바른 이름이면 '헬스' 94건으로 걸러짐) ② 지금 결과 표는 9칸(순번·단지명·세대수·입찰공고명·입찰마감일·낙찰금액·낙찰업체·응찰금액·낙찰 업체)인데 3번째 칸(세대수)을 제목으로 판정 → 관련 0 — 처음부터 이 수집기는 낙찰을 거의 못 붙였음(낙찰 분석 결과는 나라장터·원본 복사·K-apt 사업자선정에서 옴) · 고침: 바른 검색 칸 · 표 머리 칸 이름으로 칸 찾기(머리 없으면 예전 자리) · 낙찰일 = 입찰마감일 날짜 · 평가점수 칸이 있으면 참여업체마다 점수 저장(상세 읽기 판 2 — 231차 판으로 참여업체 표를 읽은 줄은 한 번 더 읽음), 낙찰 분석 진 입찰 줄에 '적격심사 점수 — 1위 · 우리(순위/곳) · n점 낮음'(무효 업체는 순위에서 뺌) · 목록이 살아나면 지난 1년치 결과가 한꺼번에 들어오므로: 결과를 처음 안 때는 낙찰일(없으면 마감일)이 7일보다 오래되면 그날 끝으로 · 당일 메일과 오늘 탭 결과 묶음은 결과 줄을 '처음 본 날'이 아니라 '결과를 안 때'로 · 원본 매일 복사도 7일 넘은 결과는 결과 시각을 찍지 않음 · '유찰 33'은 사유 표 첫 칸(낙찰/유찰/취소 구분)이 유찰이고 낙찰자가 없는 것만 — 맞게 셈
+시험: API sales-collectors(가짜 K-apt 결과 화면을 실제 9칸 표·bidTitle 로: 관련 2·낙찰 병합 1·신규 1 · 승강기 교체 공사는 관련 아님 · 한 달 전 결과 = 결과 시각 그날 끝) · sales-kapt-detail-231(평가점수 칸 → 점수 저장 · 예전 판으로 읽은 줄 한 번만 다시 · 진 입찰 점수 1위 97.71·우리 95.04·2.67점·2위/2곳) · sales-migrate 232차(+7일 넘은 결과 결과 시각 안 찍음) · 영업 관련 API 전체 · E2E 226차 낙찰 분석(점수 줄) · typecheck·lint·build
+확인 못함: 운영 K-apt 결과 목록에서 실제로 걸러지고 붙는지(내일 07시 또는 [지금 수집] 뒤 '관련 n건·낙찰 병합·신규') · 입찰마감일을 낙찰일로 쓰므로 실제 낙찰일과 며칠 차이 날 수 있음 · 결과 화면의 다른 탭(낙찰 외) 칸 모양) · 앞선 요약 (2026-10-28 233차: 자동 검사 1603번(230차 4654cd4, 운영 브랜치) 빨간불 2건 — 230차 변경(영업)과 무관한 마케팅 화면 시험 · ① #499-7 AI 마케팅팀: 실패 화면에 채택한 카드뉴스 주제가 '디자인 담당 · 대기 [디자인 담당에게 맡기기]'로 멈춤 → 원인: 채택 응답 뒤(after) 디자인 담당이 '만드는 중'을 찍기 전에 화면이 다시 읽으면 '만드는 중' 주제가 없어 3초 다시 읽기가 시작되지 않음 — 실제 화면에서도 생길 수 있음 → 채택·맡기기가 '맡김'으로 돌아오면 2분 동안은 채택한 주제의 결과가 생길 때까지 3초마다 다시 읽음 ② #535 승인함 뒤로가기: 스크롤 값 4574 → 4670 — 위쪽 묶음이 늦게 늘면 브라우저가 보던 자리를 지키려 스크롤 값을 늘림 → 시험이 스크롤 값 대신 누른 카드가 화면에서 같은 자리인지(±4) 봄(맨 위로 돌아가는 원래 문제는 그대로 잡음)
 시험: E2E #499-7 AI 마케팅팀 · #535 승인함·콘텐츠 캘린더 상세 뒤로가기 · typecheck·lint·build
 확인 못함: 다시 읽기 경쟁을 일부러 일으켜 보지는 못함(자동 검사에서 다시 보는지로 확인)) · 앞선 요약 (2026-10-28 232차: 로컬 10/28 15:40·15:55 '남원시 R26BK01779523-000 공고 조회의 결과를 처음 안 때(resultAt)가 빔 — 230차 보완이 이 줄에서 동작하나' → 원인: 이 줄은 원본 영업관리 복사 줄(출처 '원본 영업관리 복사')이고 원본 매일 복사(켜짐)가 줄 전체를 원본 값으로 덮어 워크인이 남긴 결과 시각·보완 시각을 지움 · 08:50 낙찰률·참가 수는 워크인 나라장터 낙찰 수집기가 채운 것으로 보임(마지막 고친 때와 복사 시각이 1천분의 1초 차, 원본 복사 마지막 적용 00:13) · 230차 보완은 결과 시각이 있어야 동작하고 오늘 밤 원본 복사가 낙찰률·참가 수도 지울 수 있어 내일 메일 보완이 안 나갈 뻔 · 고침 ① 당일 메일이 지난 4일 메일에 실제로 나간 결과 줄과 비교(줄 id 또는 원천·공고 번호): 같은 결과면 다시 안 냄, 바로 전 메일 결과 줄에 없던 낙찰자·낙찰금액·낙찰률·참가 수가 생겼으면 '보완' 한 줄(결과 시각이 비어도 · 그 전 메일 줄은 다시 안 내기만 — 보완이 한꺼번에 몰리지 않게) · 그 줄들은 마지막 고친 때가 오래돼도 읽음 ② 원본 매일 복사: 워크인이 채운 결과 칸(결과 시각·보완 시각·K-apt 상세 읽은 때·참여업체·사유·낙찰자·사업자번호·금액·낙찰일·낙찰률·참가 수)은 원본이 비어 있으면 남김(원본에 값이 있으면 원본 값) · 낙찰·유찰 상태를 원본의 결과 전 상태로 되돌리지 않음 · 원본 복사로 결과를 처음 알면 그때를 결과 시각으로 ③ 플랫폼 공고 조회: 보완 시각·상세 읽은 때·참여업체 수·사유 + 조회한 회사의 지난 14일 메일에 나간 날·구역·배지·결과 문장(mailed)
 시험: API sales-collectors 232차(결과 시각 없는 줄 — 안 나간 결과 = 오늘 결과 · 지난 메일에 금액만 → 보완 · 같은 결과 → 다시 안 냄 · 다른 줄 id·오래된 마지막 고친 때여도 원천·공고 번호로 보완 · 그저께 메일 줄은 다시 안 냄만) · sales-migrate 232차(비어 있는 결과 칸은 워크인 값 · 원본 값 우선 · 유찰·낙찰 상태 유지 · 결과 처음 앎 = 결과 시각, 다시 적용해도 그대로) · sales-awards-497 232차(공고 조회 새 칸·메일 기록) · 영업 관련 API 전체 · typecheck·lint·build
